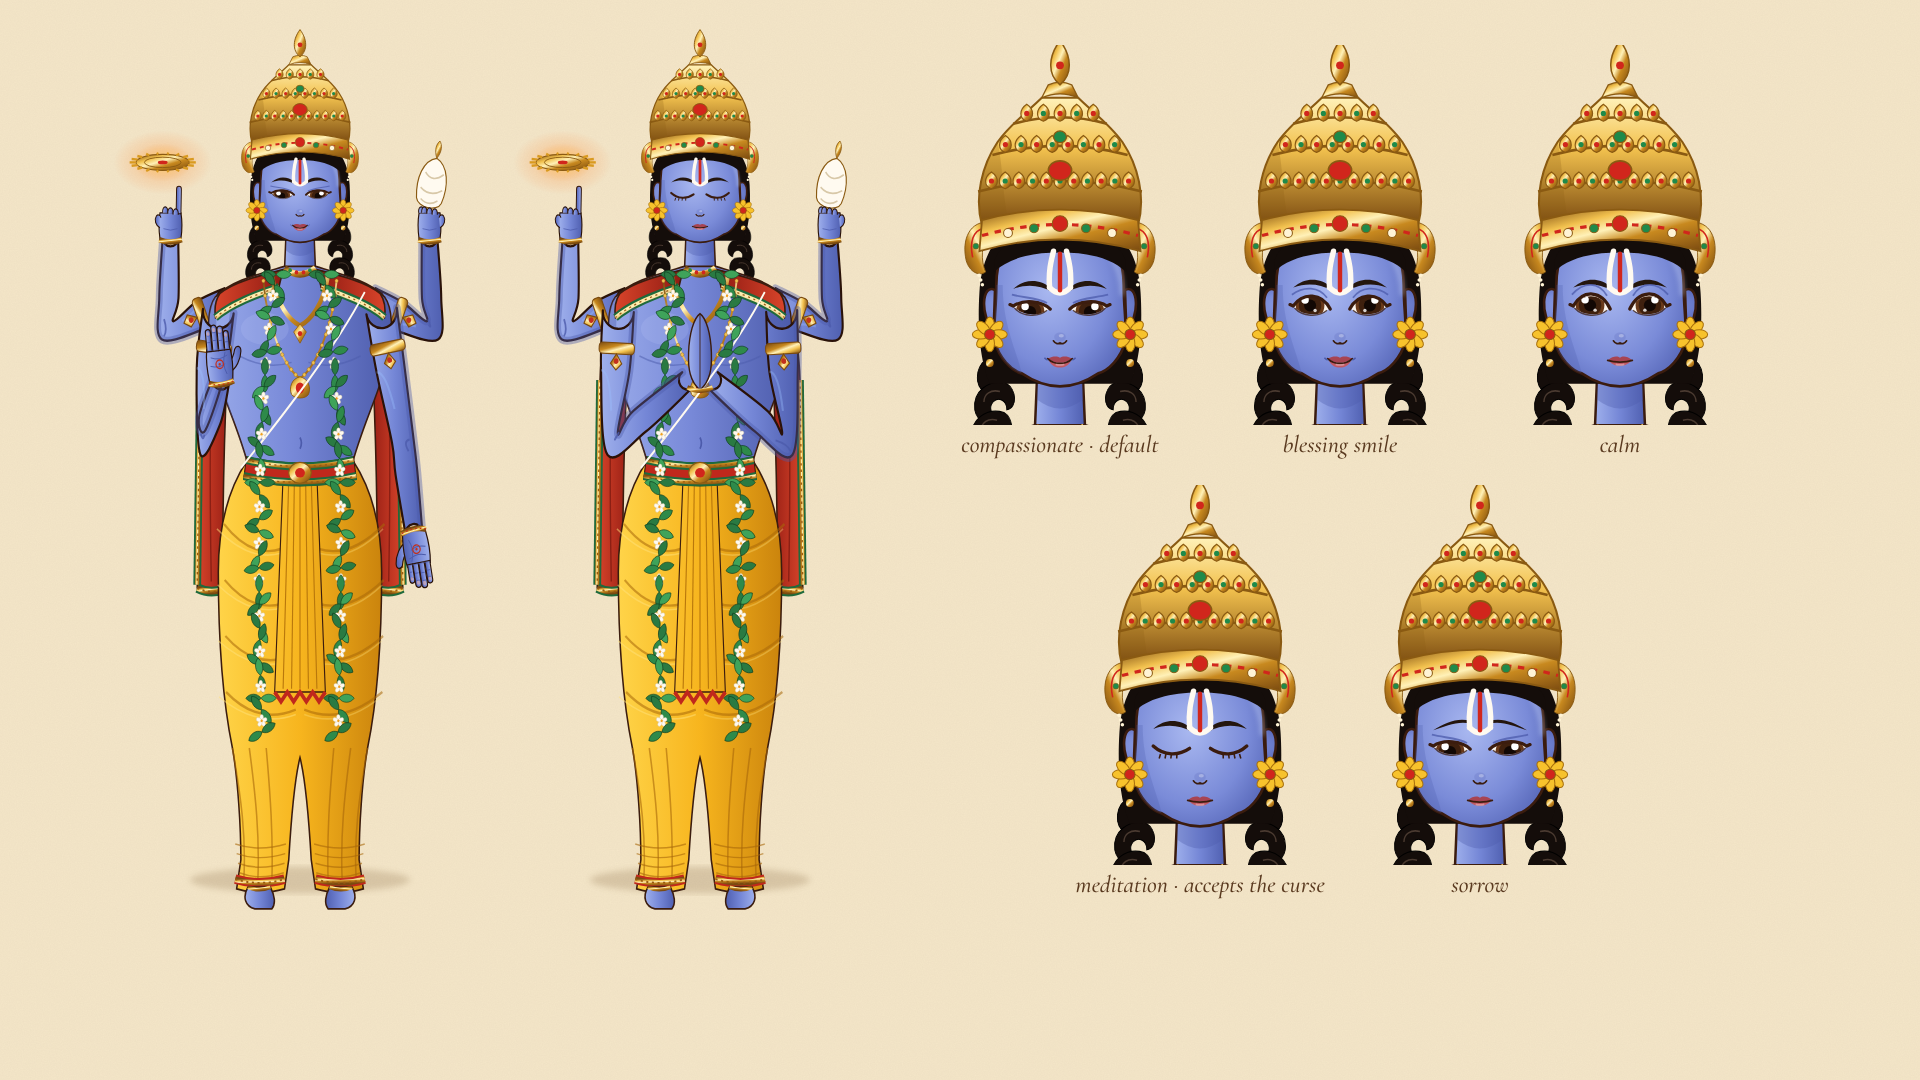
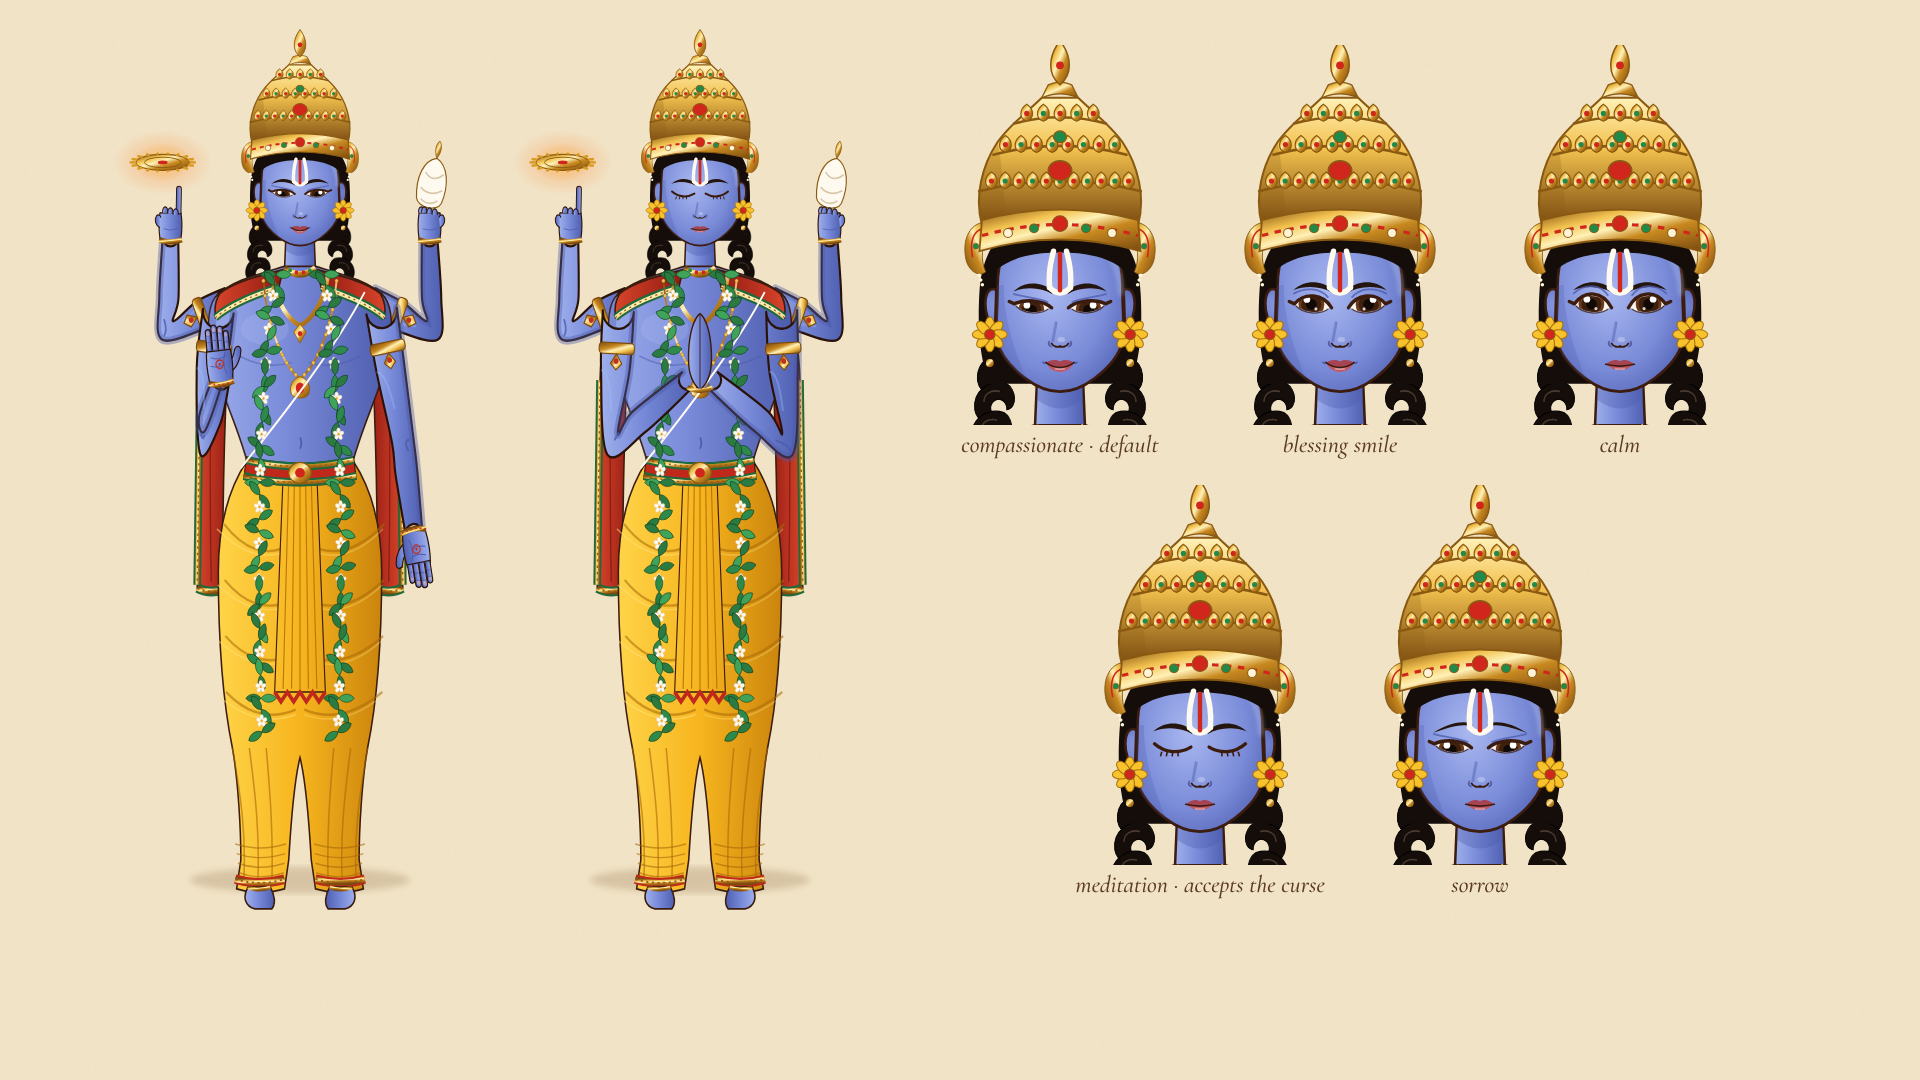
Switch locked Vishnu face to V5 (compassionate, half-closed eyes)
Claude-Session: https://claude.ai/code/session_01X3ArEdZK7W9b78YVvUKCgo

diff --git a/devotional-studio/engine/faces.js b/devotional-studio/engine/faces.js
@@ -116,9 +116,9 @@ const TULASI_FACE = { W: 47, chin: 124, cheek: 1.02, jaw: .6, noseY: 91, mouthY:
   brow: { x0: 7, x1: 34, y: 48, arch: 4, t: 2.2 }, nose: 'button', blush: .34, blushY: 90,
   lips: { w: 8, up: 3.4, lo: 5.4, c1: '#cc4e4a', c2: '#e47068' }, smile: true, hairVol: 6, hairSide: 4, wavy: true };
 
-// LOCKED: Vishnu's face = option V2 "Animated (matches Tulasi B6)" (chosen by the channel owner).
-const VISHNU_FACE = { W: 49, chin: 128, cheek: 1.02, jaw: .6, noseY: 93, mouthY: 108, irisCol: '#6a3a1a',
-  eye: { ex: 22, ey: 67, ew: 28, eh: 12.5, tilt: .8, irisK: .88, flick: 2.5 }, crease: true, liner: 2.5, lashes: false,
-  brow: { x0: 7, x1: 36, y: 49, arch: 4, t: 3 }, nose: 'button', lips: { w: 9.5, up: 3.6, lo: 5.6, c1: '#a84452', c2: '#c25a66' }, smile: true };
+// LOCKED: Vishnu's face = option V5 "Compassionate (half-closed eyes)" (chosen by the channel owner).
+const VISHNU_FACE = { W: 48, chin: 132, cheek: 1.0, jaw: .55, noseY: 95, mouthY: 111, defaultEyes: 'lowered',
+  eye: { ex: 21, ey: 66, ew: 28, eh: 11, tilt: 1.5, irisK: .9, flick: 4 }, crease: true, liner: 2.6,
+  brow: { x0: 6, x1: 36, y: 51, arch: 4, t: 3 }, nose: 'soft', lips: { w: 11, up: 4, lo: 6, c1: '#a84452', c2: '#c25a66' }, smile: true };
 
 module.exports = { faceP, tulasiHair, TULASI_FACE, VISHNU_FACE };
